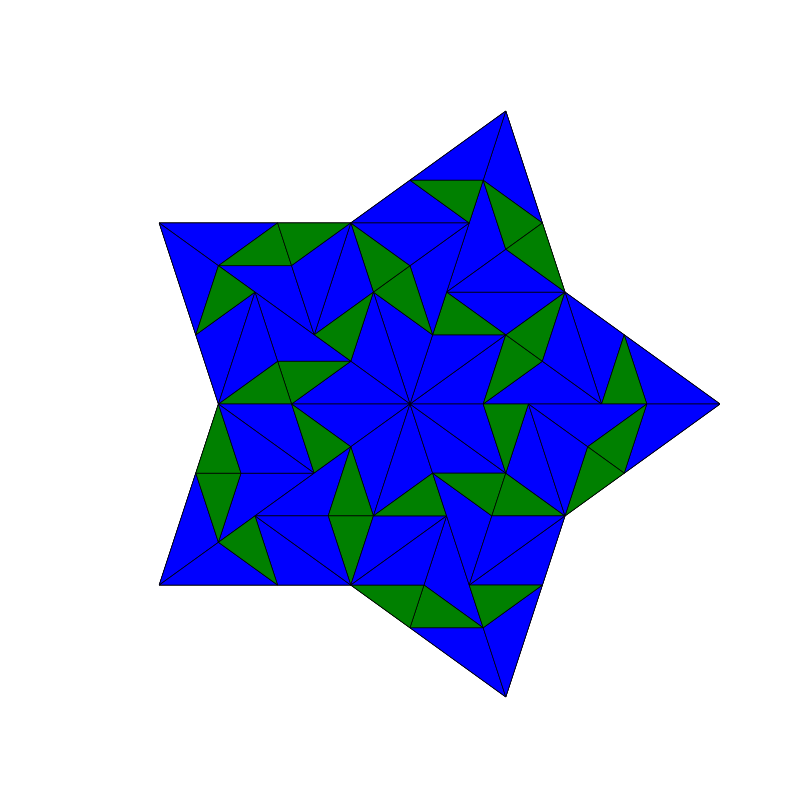
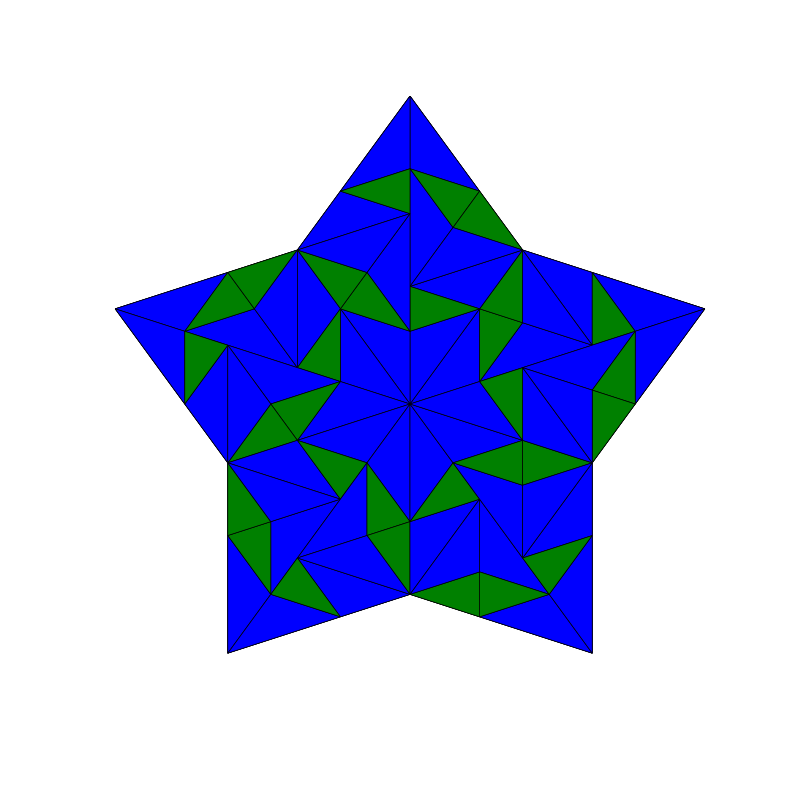
rotated penrose star

Changed region(s): [[0.125, 0.125, 0.9062, 0.875]]

diff --git a/PyPacking.py b/PyPacking.py
@@ -221,18 +221,20 @@ def Penrose_Tiling(n,pattern_name):
                 start_triangles.append(['green',[0,np.cos(i*np.pi/5),np.cos((i+1)*np.pi/5)],[0,np.sin(i*np.pi/5),np.sin((i+1)*np.pi/5)]])
             if i % 2 != 0:
                 start_triangles.append(['green',[0,np.cos((i+1)*np.pi/5),np.cos(i*np.pi/5)],[0,np.sin((i+1)*np.pi/5),np.sin(i*np.pi/5)]])
-            plot_triangle(start_triangles[i])
 
     if pattern_name == 'star':
-       for i in range(0,10):
+        rot = np.pi/10
+        for i in range(0,10):
             if i % 2 == 0:
                 r = 0.5/np.cos(np.pi/5)
-                start_triangles.append(['blue',[r*np.cos((i+1)*np.pi/5),0,np.cos(i*np.pi/5),],[r*np.sin((i+1)*np.pi/5),0,np.sin(i*np.pi/5),]])
+                start_triangles.append(['blue',[r*np.cos((i+1)*np.pi/5+rot),0,np.cos(i*np.pi/5+rot),],[r*np.sin((i+1)*np.pi/5+rot),0,np.sin(i*np.pi/5+rot),]])
 
             if i % 2 != 0:
                 r = 0.5/np.cos(np.pi/5)
-                start_triangles.append(['blue',[r*np.cos(i*np.pi/5),np.cos((i+1)*np.pi/5),0],[r*np.sin(i*np.pi/5),np.sin((i+1)*np.pi/5),0]])
-            plot_triangle(start_triangles[i])
+                start_triangles.append(['blue',[r*np.cos(i*np.pi/5+rot),np.cos((i+1)*np.pi/5+rot),0],[r*np.sin(i*np.pi/5+rot),np.sin((i+1)*np.pi/5+rot),0]])
+
+    for triangle in start_triangles:
+        plot_triangle(triangle)
     
     def peN_div(triangles, n):
         if n >= 1:
@@ -251,5 +253,5 @@ def Penrose_Tiling(n,pattern_name):
 
 # #pack(5)
 # #triangle_subdivision(5,'zelda')
-# # Penrose_Tiling(1,'star')
+# Penrose_Tiling(1,'star')
 # plt.show()
